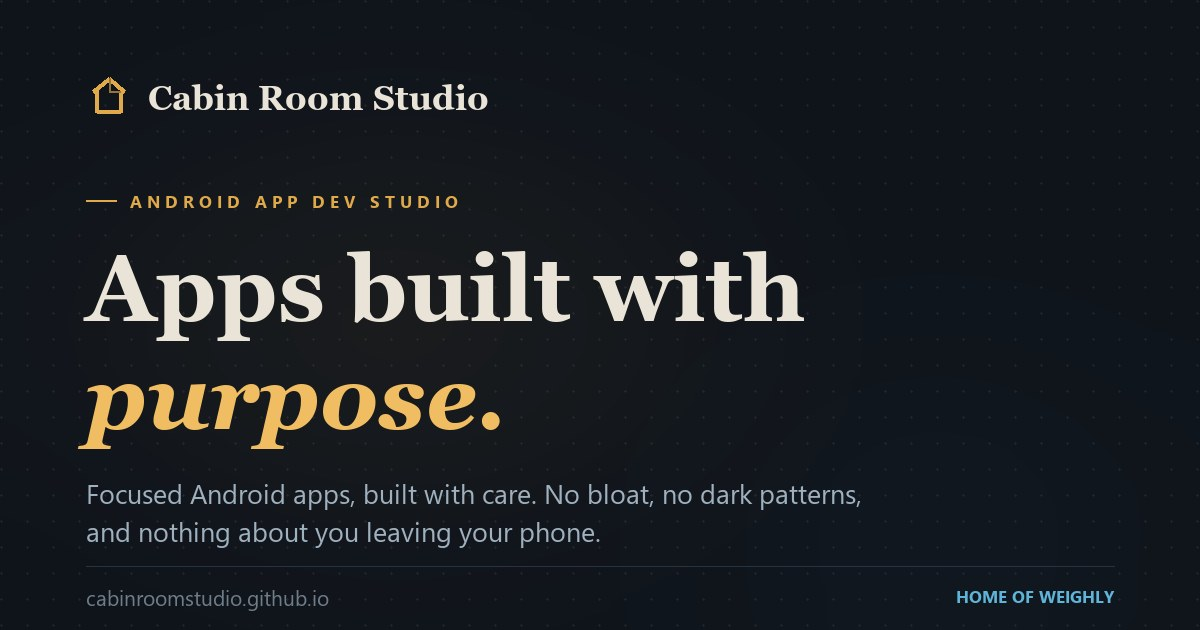
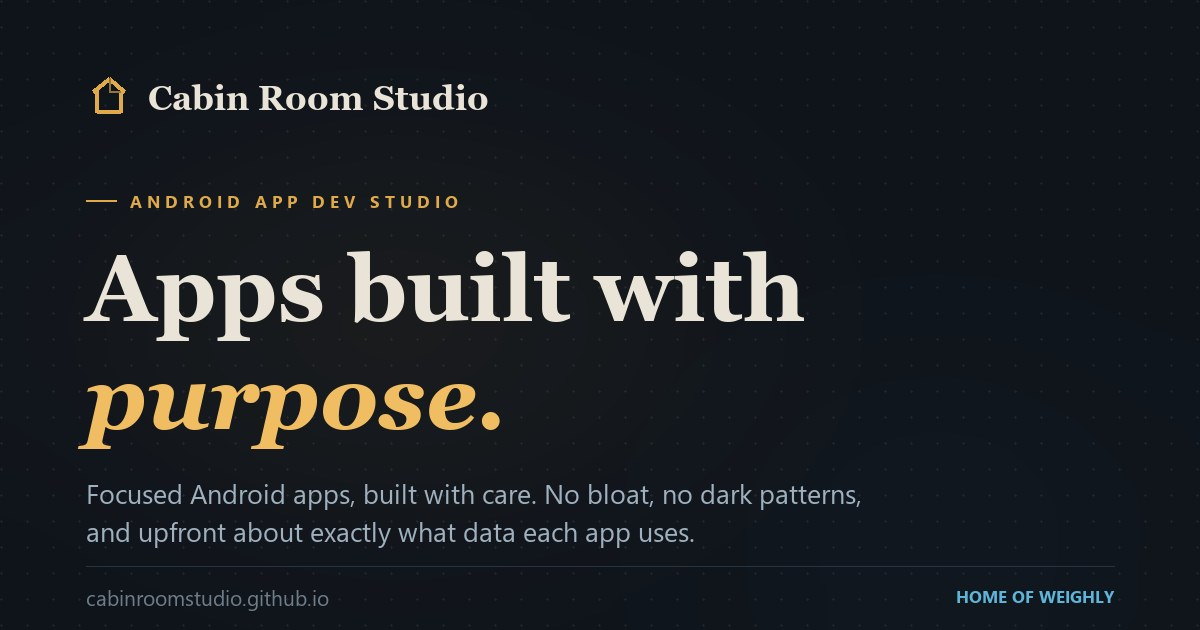
Add QuizApp policies; align studio privacy claims with per-app data use
QuizApp uses AdMob, Firebase Crashlytics and optional Play Games
sign-in, which contradicted several studio-wide statements.

- Add quizapp-terms.html and quizapp-privacy.html on the shared
  legal-page shell. Text carried over verbatim (word counts match).
- studio-privacy.html: replace "We do not transmit your personal data
  to external servers" with a statement that some apps use third-party
  services and each app's policy lists them. Effective date updated,
  as the policy itself requires on any change.
- Homepage intro and og-image.jpg: "nothing about you leaving your
  phone" -> "upfront about exactly what data each app uses".
- Roadmap: Quiz App moves Ideating -> In development; "no accounts,
  no ads" copy replaced with an accurate description.
- Remove the "reply within a day or two" promise from the contact
  section and the form success message.
- Cursor highlight radius 300 -> 180px, glow scaled to match.
- sitemap.xml gains both QuizApp pages.

Changed region(s): [[0.1233, 0.8143, 0.5858, 0.8746]]

diff --git a/quizapp-privacy.html b/quizapp-privacy.html
@@ -1,0 +1,95 @@
+<!DOCTYPE html>
+<html lang="en">
+<head>
+<meta charset="UTF-8">
+<meta name="viewport" content="width=device-width, initial-scale=1.0">
+<title>QuizApp - Privacy Policy | Cabin Room Studio</title>
+<meta name="description" content="What QuizApp stores on your device, and how Play Games sign-in, Crashlytics and AdMob handle data.">
+<link rel="canonical" href="https://cabinroomstudio.github.io/quizapp-privacy.html">
+<meta name="theme-color" content="#10161D">
+
+<link rel="icon" type="image/svg+xml" href="favicon.svg">
+<link rel="apple-touch-icon" href="favicon.jpg">
+
+<link rel="preconnect" href="https://fonts.googleapis.com">
+<link rel="preconnect" href="https://fonts.gstatic.com" crossorigin>
+<link href="https://fonts.googleapis.com/css2?family=DM+Sans:ital,wght@0,300;0,400;0,500;0,700;1,300&family=DM+Serif+Display:ital@0;1&family=JetBrains+Mono:wght@400;500;600&display=swap" rel="stylesheet">
+
+<link rel="stylesheet" href="assets/css/tokens.css">
+<link rel="stylesheet" href="assets/css/base.css">
+<link rel="stylesheet" href="assets/css/components.css">
+<link rel="stylesheet" href="assets/css/legal.css">
+<noscript><style>
+  .reveal { opacity: 1 !important; transform: none !important; }
+  .faq-a { grid-template-rows: 1fr; }
+  .faq-a > div { padding-bottom: var(--sp-6); }
+  .rm-item { opacity: 1 !important; transform: none !important; }
+  .roadmap-svg { display: none; }
+</style></noscript>
+</head>
+<body>
+
+<a class="skip-link" href="#main">Skip to content</a>
+
+<div class="dot-field" aria-hidden="true"></div>
+<div class="aurora" aria-hidden="true"></div>
+<div class="grain" aria-hidden="true"></div>
+
+<header class="nav nav--legal">
+  <a class="nav-logo" href="index.html">
+    <svg class="nav-mark" viewBox="0 0 64 64" aria-hidden="true">
+      <path d="M32 6 L54 24 L48 24 L48 54 L16 54 L16 24 L10 24 Z" fill="none" stroke="#e0a94a" stroke-width="4" stroke-linejoin="round"/>
+      <path d="M32 6 L32 24 L48 24" fill="none" stroke="#e0a94a" stroke-width="2.6" stroke-linejoin="round" opacity="0.55"/>
+    </svg>
+    Cabin Room Studio
+  </a>
+  <a class="nav-back" href="index.html">
+    <svg viewBox="0 0 24 24" fill="none" stroke="currentColor" stroke-width="2" stroke-linecap="round" stroke-linejoin="round" aria-hidden="true"><path d="M15 5l-7 7 7 7"/></svg>
+    <span>Back to home</span>
+  </a>
+</header>
+
+<main id="main" class="legal-page">
+  <div class="u-container">
+    <div class="legal-head">
+      <p class="u-eyebrow">QuizApp</p>
+      <h1>Privacy Policy</h1>
+      <p class="legal-meta"><span>QuizApp</span><span>Last updated 13 September 2026</span></p>
+    </div>
+
+    <div class="legal-body">
+      <p>This policy explains what information QuizApp collects, how it's used, and what stays entirely on your device. QuizApp is developed by Cabin Room Studio.</p>
+      <h2>Data that stays on your device</h2>
+      <p>QuizApp's game history, statistics, streaks, and achievement progress are stored locally on your device (in a local database) and are <strong>not</strong> uploaded to any server we operate. Uninstalling the app deletes this data. We have no account system and no server-side copy of your play history.</p>
+      <h2>Play Games Services (optional sign-in)</h2>
+      <p>If you choose to sign in with Google Play Games, QuizApp uses that sign-in for identity and to report achievement unlocks to your Play Games profile. Signing in is optional - the app is fully playable without it. Google's handling of your Play Games account data is governed by <a href="https://policies.google.com/privacy" target="_blank" rel="noopener">Google's Privacy Policy</a>.</p>
+      <h2>Crash reporting</h2>
+      <p>QuizApp uses Firebase Crashlytics to receive automatic crash reports if the app fails unexpectedly, so we can fix bugs. These reports include technical details (device model, OS version, stack traces) and are handled under <a href="https://firebase.google.com/support/privacy" target="_blank" rel="noopener">Firebase's privacy terms</a>. We don't intentionally collect personal information through this channel.</p>
+      <h2>Advertising</h2>
+      <p>QuizApp may show ads served through Google AdMob to support continued development. AdMob may collect device identifiers and usage data to serve ads, including personalized ads where permitted and where you've consented. You can control ad personalization through your device's ad settings. Google's use of this data is governed by <a href="https://policies.google.com/technologies/ads" target="_blank" rel="noopener">Google's advertising policies</a>. Where required by law (for example, under GDPR in the EU/UK), a consent prompt will ask for your permission before personalized ads are shown.</p>
+      <h2>Children's privacy</h2>
+      <p>QuizApp is intended for a general audience and is not directed at children under 13. We do not knowingly collect personal information from children under 13.</p>
+      <h2>Contact and feedback</h2>
+      <p>If you email us feedback or a bug report, we'll only use your email address to respond to you - it isn't stored anywhere beyond our inbox or shared with anyone else.</p>
+      <h2>Changes to this policy</h2>
+      <p>If this policy changes materially - for example, when advertising or new data-collecting features launch - this page will be updated and the date above will reflect the change.</p>
+      <aside class="legal-callout"><strong>Questions?</strong> Reach us at <a href="mailto:cabinroomstudio42@gmail.com">cabinroomstudio42@gmail.com</a>.</aside>
+    </div>
+  </div>
+</main>
+
+<footer class="footer legal-footer">
+  <div class="u-container">
+    <p class="footer-copy">&copy; <span class="js-year">2026</span> Cabin Room Studio</p>
+    <nav class="legal-footer-links" aria-label="Policies">
+      <a href="index.html">Home</a>
+      <a href="studio-privacy.html">Studio privacy</a>
+      <a href="studio-terms.html">Studio terms</a>
+      <a href="mailto:cabinroomstudio42@gmail.com">Contact</a>
+    </nav>
+  </div>
+</footer>
+
+<script src="assets/js/main.js" defer></script>
+</body>
+</html>

diff --git a/quizapp-terms.html b/quizapp-terms.html
@@ -3,9 +3,9 @@
 <head>
 <meta charset="UTF-8">
 <meta name="viewport" content="width=device-width, initial-scale=1.0">
-<title>Privacy Policy - Cabin Room Studio</title>
-<meta name="description" content="How Cabin Room Studio handles information on this website and in our Android apps.">
-<link rel="canonical" href="https://cabinroomstudio.github.io/studio-privacy.html">
+<title>QuizApp - Terms of Use | Cabin Room Studio</title>
+<meta name="description" content="The terms that apply to your use of the QuizApp Android app.">
+<link rel="canonical" href="https://cabinroomstudio.github.io/quizapp-terms.html">
 <meta name="theme-color" content="#10161D">
 
 <link rel="icon" type="image/svg+xml" href="favicon.svg">
@@ -52,25 +52,30 @@
 <main id="main" class="legal-page">
   <div class="u-container">
     <div class="legal-head">
-      <p class="u-eyebrow">Cabin Room Studio</p>
-      <h1>Privacy Policy</h1>
-      <p class="legal-meta"><span>Cabin Room Studio</span><span>Effective 13 September 2026</span></p>
+      <p class="u-eyebrow">QuizApp</p>
+      <h1>Terms of Use</h1>
+      <p class="legal-meta"><span>QuizApp</span><span>Last updated 13 September 2026</span></p>
     </div>
 
     <div class="legal-body">
-      <p>This Privacy Policy describes how Cabin Room Studio ("we", "us", or "our") handles information in relation to this website and our Android applications.</p>
-      <h2>Who We Are</h2>
-      <p>Cabin Room Studio is an independent Android development practice. We build focused Android apps and keep as much of your data on your device as we can. This policy covers our studio website at cabinroomstudio.github.io.</p>
-      <h2>Information We Collect</h2>
-      <p>This website does not collect any personal information. We do not use cookies, analytics tools, tracking pixels, or any third-party data collection services. We do not maintain user accounts and do not ask for your name, email, or any other personal details.</p>
-      <h2>Our Apps</h2>
-      <p>Each of our Android apps has its own privacy policy available on the respective app's Play Store listing. As a general principle, our apps store your data locally on your device. Some apps use third-party services, such as advertising or crash reporting; each app's privacy policy lists exactly which services it uses and what they collect.</p>
-      <h2>Third-Party Links</h2>
-      <p>This website may contain links to Google Play Store and other external services. We are not responsible for the privacy practices of those services. We encourage you to review their privacy policies before interacting with them.</p>
-      <h2>Contact</h2>
-      <p>If you have any questions about this privacy policy, you can contact us at <a href="mailto:cabinroomstudio42@gmail.com">cabinroomstudio42@gmail.com</a>.</p>
-      <h2>Changes to This Policy</h2>
-      <p>We may update this policy from time to time. Any changes will be reflected on this page with an updated effective date.</p>
+      <p>These terms govern your use of QuizApp, developed by Cabin Room Studio. By installing or using the app, you agree to these terms.</p>
+      <h2>Using the app</h2>
+      <p>QuizApp is licensed to you for personal, non-commercial use. You may not redistribute, resell, or repackage the app or its content (questions, facts, trivia, and other authored material) without permission.</p>
+      <h2>Accounts and sign-in</h2>
+      <p>Signing in with Google Play Games is optional. If you choose to sign in, you're also subject to Google Play's own terms for that service.</p>
+      <h2>Availability and changes</h2>
+      <p>We may update, change, or discontinue features of QuizApp at any time, including content, game modes, or the app itself. We'll try to avoid disruptive changes, but we don't guarantee the app or any specific feature will always be available.</p>
+      <h2>Advertising and third-party services</h2>
+      <p>QuizApp may display ads through Google AdMob and uses Firebase Crashlytics for crash reporting. Your use of the app means you accept that these third-party services operate under their own terms, in addition to this policy and our <a href="quizapp-privacy.html">Privacy Policy</a>.</p>
+      <h2>No warranty</h2>
+      <p>QuizApp is provided "as is," without warranties of any kind, express or implied. We don't guarantee the app will be error-free, uninterrupted, or free of bugs.</p>
+      <h2>Limitation of liability</h2>
+      <p>To the fullest extent permitted by law, Cabin Room Studio is not liable for any indirect, incidental, or consequential damages arising from your use of the app.</p>
+      <h2>Termination</h2>
+      <p>You can stop using QuizApp at any time by uninstalling it. We may also restrict or discontinue access to the app or any of its features at our discretion.</p>
+      <h2>Changes to these terms</h2>
+      <p>If these terms change materially, this page will be updated and the date above will reflect the change. Continuing to use the app after changes take effect means you accept the updated terms.</p>
+      <aside class="legal-callout"><strong>Questions?</strong> Reach us at <a href="mailto:cabinroomstudio42@gmail.com">cabinroomstudio42@gmail.com</a>.</aside>
     </div>
   </div>
 </main>

diff --git a/index.html b/index.html
@@ -120,7 +120,7 @@
             <span class="h-word" style="--w:3"><i class="u-em">purpose.</i></span>
           </h1>
 
-          <p class="hero-sub">Focused Android apps, built with care. No bloat, no dark patterns, and nothing about you leaving your phone.</p>
+          <p class="hero-sub">Focused Android apps, built with care. No bloat, no dark patterns, and upfront about exactly what data each app uses.</p>
 
           <div class="hero-actions">
             <a class="btn btn--primary" href="#apps">See our apps</a>
@@ -275,16 +275,16 @@
           <div class="rm-pop"><p>Daily tactics puzzles to sharpen your game. No accounts, no clock pressure, just the board.</p></div>
         </div>
 
-        <div class="rm-item rm-item--soon rm-item--top" style="--node:#f4c95d; --glow:rgba(244,201,93,0.3)">
-          <button class="rm-node" type="button" aria-expanded="false" aria-label="Quiz App - ideating">
+        <div class="rm-item rm-item--live rm-item--top" style="--node:#f4c95d; --glow:rgba(244,201,93,0.3)">
+          <button class="rm-node" type="button" aria-expanded="false" aria-label="Quiz App - in development">
             <svg class="rm-icon ic-quiz" viewBox="0 0 24 24" fill="none" stroke="currentColor" stroke-width="1.8" stroke-linecap="round" stroke-linejoin="round" aria-hidden="true">
               <circle cx="12" cy="12" r="9"/>
               <path class="quiz-mark" d="M9.5 9.5a2.5 2.5 0 1 1 3.5 2.3c-.9.4-1.5.9-1.5 2"/>
               <circle cx="12" cy="17" r="0.6" fill="currentColor"/>
             </svg>
           </button>
-          <div class="rm-label"><h3>Quiz App</h3><p class="rm-status">Ideating</p></div>
-          <div class="rm-pop"><p>Quick, focused quizzes on topics you pick. No accounts, no ads, no clutter.</p></div>
+          <div class="rm-label"><h3>Quiz App</h3><p class="rm-status">In development</p></div>
+          <div class="rm-pop"><p>Quick quizzes on topics you pick, with streaks and achievements. Your play history stays on your device.</p></div>
         </div>
 
         <div class="rm-item rm-item--soon rm-item--bottom" style="--node:#5fb4d9; --glow:rgba(95,180,217,0.3)">
@@ -318,10 +318,6 @@
             <li>
               <svg viewBox="0 0 24 24" fill="none" stroke="currentColor" stroke-width="1.8" aria-hidden="true"><rect x="3" y="5" width="18" height="14" rx="2"/><path d="m3 7 9 6 9-6"/></svg>
               <a href="mailto:cabinroomstudio42@gmail.com">cabinroomstudio42@gmail.com</a>
-            </li>
-            <li>
-              <svg viewBox="0 0 24 24" fill="none" stroke="currentColor" stroke-width="1.8" aria-hidden="true"><circle cx="12" cy="12" r="9"/><path d="M12 7v5l3 2"/></svg>
-              We usually reply within a day or two
             </li>
           </ul>
         </div>

diff --git a/assets/css/base.css b/assets/css/base.css
@@ -94,8 +94,8 @@ h4, h5, h6 { font-family: var(--font-display); font-weight: 400; line-height: va
   content: ""; position: absolute; inset: 0;
   background-image: radial-gradient(circle at 1px 1px, var(--amber-500) 1px, transparent 0);
   background-size: 26px 26px;
-  -webkit-mask-image: radial-gradient(circle 300px at var(--px) var(--py), #000 0%, rgba(0,0,0,0.5) 45%, transparent 75%);
-          mask-image: radial-gradient(circle 300px at var(--px) var(--py), #000 0%, rgba(0,0,0,0.5) 45%, transparent 75%);
+  -webkit-mask-image: radial-gradient(circle 180px at var(--px) var(--py), #000 0%, rgba(0,0,0,0.5) 45%, transparent 75%);
+          mask-image: radial-gradient(circle 180px at var(--px) var(--py), #000 0%, rgba(0,0,0,0.5) 45%, transparent 75%);
   opacity: 0;
   transition: opacity var(--dur-slow) var(--ease-out);
 }
@@ -106,8 +106,8 @@ h4, h5, h6 { font-family: var(--font-display); font-weight: 400; line-height: va
   position: fixed; inset: 0; z-index: var(--z-bg);
   pointer-events: none;
   background:
-    radial-gradient(circle 500px at var(--ax) var(--ay), rgba(var(--amber-rgb), 0.20), transparent 62%),
-    radial-gradient(circle 320px at var(--ax) var(--ay), rgba(var(--coast-rgb), 0.14), transparent 58%);
+    radial-gradient(circle 320px at var(--ax) var(--ay), rgba(var(--amber-rgb), 0.20), transparent 62%),
+    radial-gradient(circle 200px at var(--ax) var(--ay), rgba(var(--coast-rgb), 0.14), transparent 58%);
   opacity: 0;
   transition: opacity var(--dur-slow) var(--ease-out);
 }

diff --git a/assets/js/main.js b/assets/js/main.js
@@ -492,7 +492,7 @@
         .then(function (r) { return r.json(); })
         .then(function (result) {
           if (!result.success) throw new Error(result.message || 'Request failed');
-          status.textContent = 'Thanks - message sent. We usually reply within a day or two.';
+          status.textContent = 'Thanks - message sent.';
           status.classList.add('is-ok');
           form.reset();
         })
